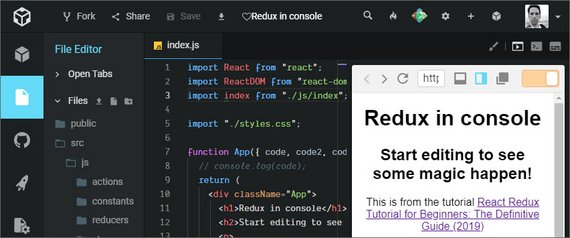
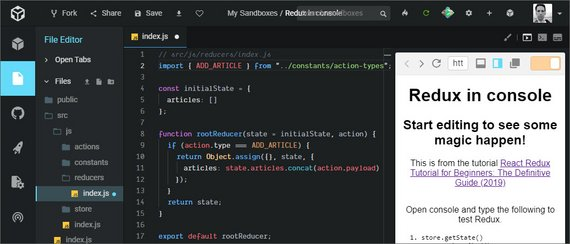
r5d5: React Redux Tutorial Pt 2

diff --git a/docs/log5.md b/docs/log5.md
@@ -34,12 +34,49 @@ This is part of Alexander Kallaway's [100DaysOfCode](https://github.com/Kallaway
 
 ---
 
+## 5. React Redux Tutorial Pt 2
+### Day 5: March 3, 2019 - Sunday
+
+**Project:** [Udacity React Nanodegree Program](https://www.udacity.com/course/react-nanodegree--nd019)
+
+[![Redux](assets/images/day5-small.jpg)](assets/images/day5.jpg)<br>
+**Live Demo:** [React Redux](https://codesandbox.io/s/v3ykn3oo5?fontsize=14) on CodeSandbox
+
+**Progress:** Continued Udacity Redux lesson for my React Nanodegree Program.
+
+Today I went through the second part of a tutorial called
+
+- *[React Redux Tutorial for Beginners: The Definitive Guide (2019)](https://www.valentinog.com/blog/redux/)*
+
+[![Redux](assets/images/day5a-small.jpg)](assets/images/day5a.jpg)
+
+This focused on combining Redux & React with the react-redux package and doing the following:
+
+- Wrapping the app with a `<Provider>` HOC (Higher Order Component)
+- Calling `connect()` on any components we want to connect to Redux
+- Using `mapStateToProps` and `mapDispatchToProps` to allow us to access state and dispatch from a React component's props.  
+
+This was put into practice by creating an App, List, and Form component.
+
+- App -  parent component containing List and Form. App is wrapped with `<Provider>` to allow React to access Redux store.
+- List - used `mapStateToProps` to display titles from Redux store (state).
+- Form - used `mapDispatchToProps` to dispatch ADD_ARTICLE action and update the store.
+
+**Links:**
+- Live Demo - [Redux Redux](https://codesandbox.io/s/v3ykn3oo5?fontsize=14) on CodeSandbox
+- Tutorial - [React Redux Tutorial for Beginners: The Definitive Guide (2019)](https://www.valentinog.com/blog/redux/)
+- Course notes - [Udacity React & Redux](https://james-priest.github.io/udacity-nanodegree-react/course-notes/react-redux.html#react--redux)
+- Link to [Udacity React Nanodegree Program](https://www.udacity.com/course/react-nanodegree--nd019)
+
+---
+
 ## 4. React Redux Tutorial Pt 1
 ### Day 4: March 2, 2019 - Saturday
 
 **Project:** [Udacity React Nanodegree Program](https://www.udacity.com/course/react-nanodegree--nd019)
 
-[![Redux](assets/images/day4-small.jpg)](assets/images/day4.jpg)
+[![Redux](assets/images/day4-small.jpg)](assets/images/day4.jpg)<br>
+**Live Demo:** [Redux in console](https://codesandbox.io/s/9z2py96vqo?fontsize=14) on CodeSandbox
 
 **Progress:** Continued Udacity Redux lesson for my React Nanodegree Program.
 
@@ -54,10 +91,13 @@ This first half focused on the basic elements of Redux and using it in console.
 - Subscribing to state changes
 - Dispatching actions
 
+[![Redux](assets/images/day4a-small.jpg)](assets/images/day4a.jpg)
+
 The next part will deal with connecting Redux and React together.
 
 **Links:**
 - Live Demo - [Redux in console](https://codesandbox.io/s/9z2py96vqo?fontsize=14) on CodeSandbox
+- Tutorial - [React Redux Tutorial for Beginners: The Definitive Guide (2019)](https://www.valentinog.com/blog/redux/)
 - Course notes - [Udacity React & Redux](https://james-priest.github.io/udacity-nanodegree-react/course-notes/react-redux.html#react--redux)
 - Link to [Udacity React Nanodegree Program](https://www.udacity.com/course/react-nanodegree--nd019)
 
